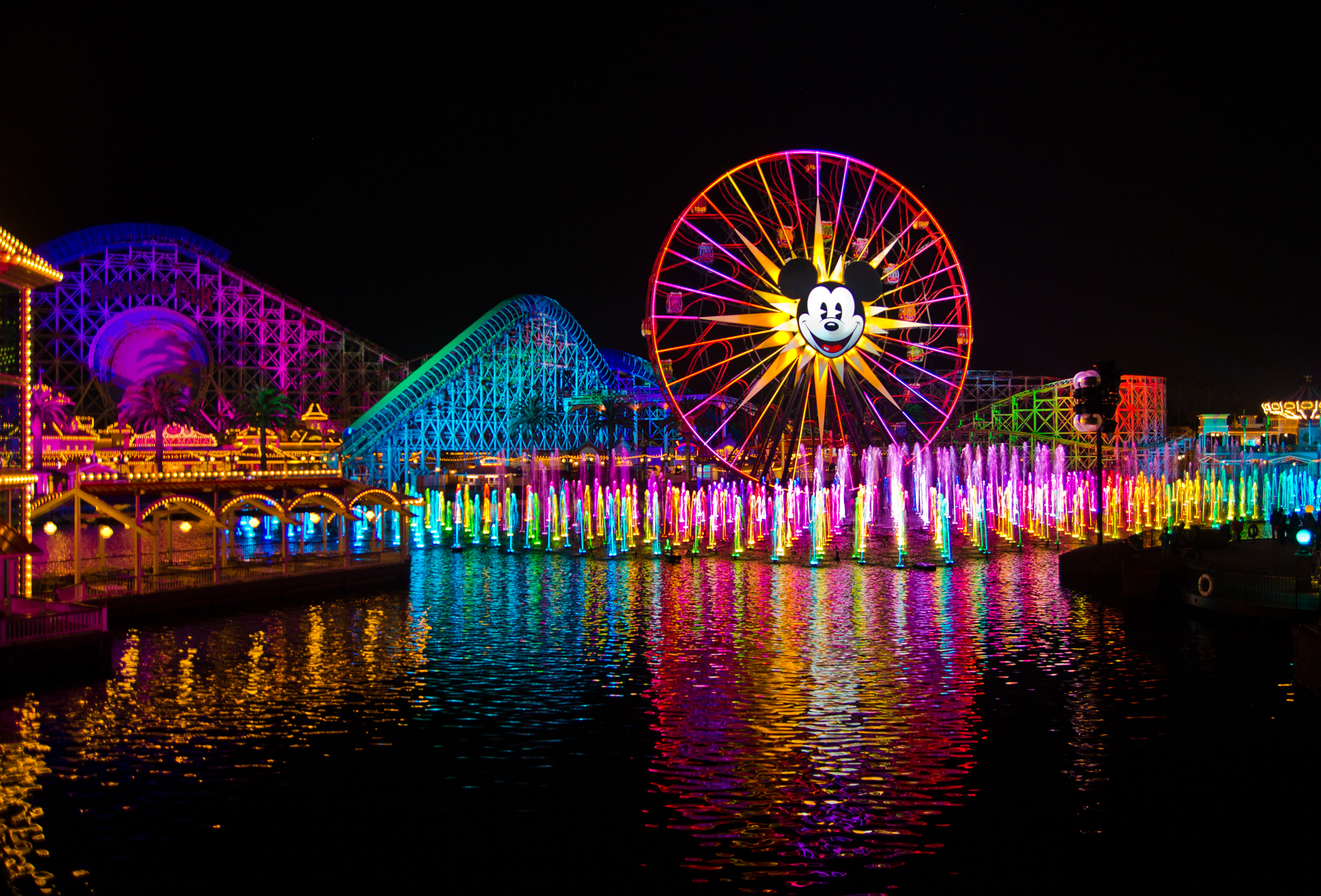
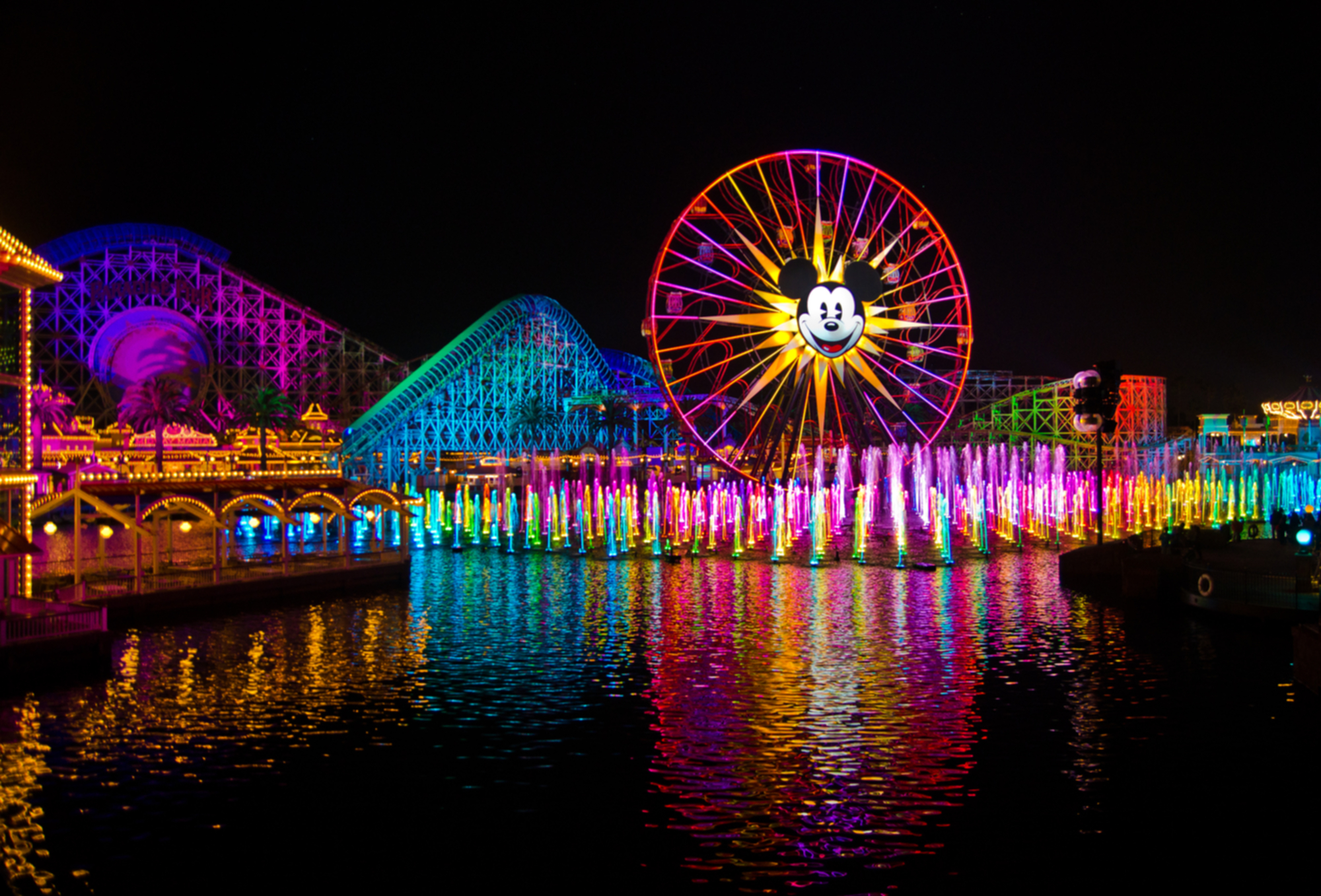
Slight blur on og background image

diff --git a/index.html b/index.html
@@ -64,7 +64,7 @@
 
       <div class="row banner">
          <div class="banner-text">
-            <h1 class="responsive-headline wow zoomIn">I'm <span>Tiger Shen</span></h1>
+            <h1 class="responsive-headline wow zoomIn">I'm <span>Tiger</span></h1>
             <h1 class="tagline wow fadeInUp"><span>student</span> and <span>web developer</span></h3>
             <hr />
          </div>

diff --git a/css/style.css b/css/style.css
@@ -154,7 +154,7 @@ header .banner-text h1 {
    font-family: 'Raleway', sans-serif;
    color: #fff;
    text-shadow: -2px 0 black, 0 2px black, 2px 0 black, 0 -2px black;
-   letter-spacing: 2px;
+   letter-spacing: 3px;
    margin: 0 auto 40px;
 }
 
